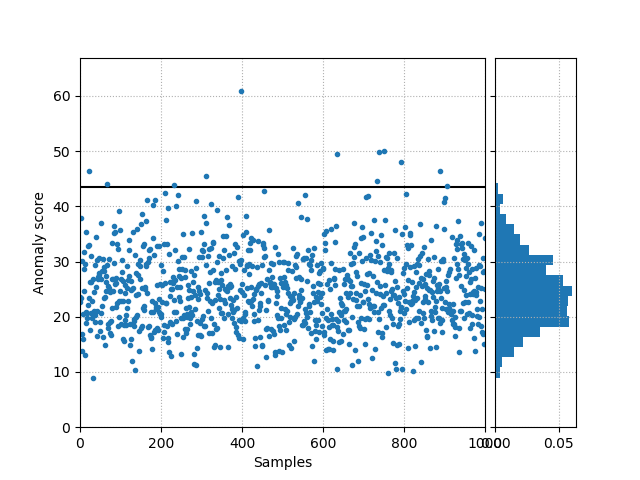
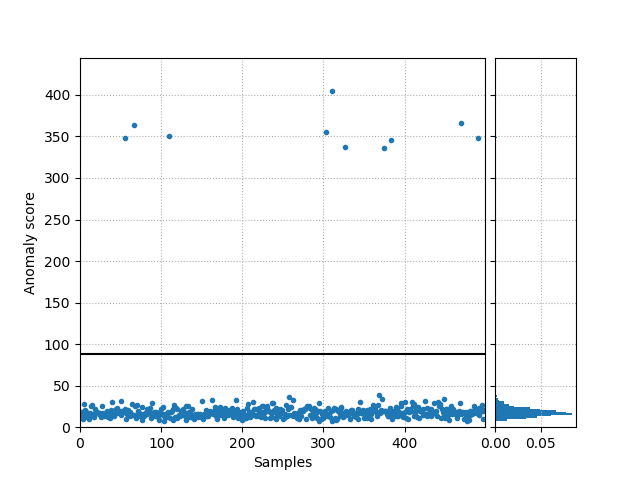
update README.rst

diff --git a/README.rst b/README.rst
@@ -32,6 +32,7 @@ Requirements
 -  networkx (>=2.0)
 -  numpy (>=1.14.0)
 -  pandas (>=0.22.0)
+-  pygraphviz (>=1.3.1)
 -  scikit-learn (>=0.19.1)
 -  scipy (>=1.0.0)
 
@@ -56,40 +57,17 @@ Usage
 .. code:: python
 
     import matplotlib.pyplot as plt
-    import numpy as np
     from kenchi.datasets import make_blobs
     from kenchi.outlier_detection import SparseStructureLearning
 
-    train_size       = 1000
-    test_size        = 250
-    n_outliers       = 10
-    n_features       = 25
-    centers          = np.zeros((1, n_features))
-
     # Generate the training data
-    X_train, y_train = make_blobs(
-        n_inliers    = train_size,
-        n_outliers   = 0,
-        n_features   = n_features,
-        centers      = centers,
-        random_state = 1
-    )
-
-    # Generate the test data that contains outliers
-    X_test, _        = make_blobs(
-        n_inliers    = test_size - n_outliers,
-        n_outliers   = n_outliers,
-        n_features   = n_features,
-        centers      = centers,
-        random_state = 2,
-        shuffle      = False
-    )
+    X, _ = make_blobs(centers=1, random_state=1)
 
     # Fit the model according to the given training data
-    det              = SparseStructureLearning().fit(X_train)
+    det  = SparseStructureLearning().fit(X)
 
     # Plot the anomaly score for each training sample
-    det.plot_anomaly_score(X_test, linestyle='', marker='.')
+    det.plot_anomaly_score(linestyle='', marker='.')
 
     plt.show()
 
